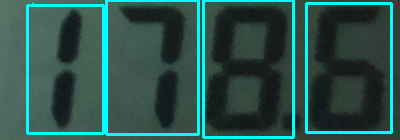
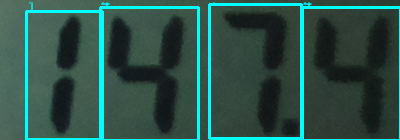
global process comensado

Changed region(s): [[0.06, 0.0, 1.0, 1.0], [0.12, 0.4286, 0.21, 0.6]]

diff --git a/Entrega1_2/main.py b/Entrega1_2/main.py
@@ -25,14 +25,23 @@ class Window:
         #clipping button
         self.MainWindow.Clip_button.clicked.connect(self.clipping)
         
-        #conexión del botón
+        #load button
         self.MainWindow.Load_button.clicked.connect(self.loadImage)
         
-        #Extract number button
+        #extract number button and windows
         self.MainWindow.OCR_button.clicked.connect(self.extractNumbers)
         self.res1 = self.MainWindow.resultado1
         self.res2 = self.MainWindow.resultado2
         self.res3 = self.MainWindow.resultado3
+
+        #global process button
+        self.MainWindow.GLOBAL_button.clicked.connect(self.globalProcess)
+
+    def globalProcess(self):
+        for i in range(12):
+            self.loadImage("capturas/capturas_{}.jpg".format(i+1))
+            self.clipping()
+            self.extractNumbers()
 
     def extractNumbers(self):
         num1 = self.nums[0][0][1]+self.nums[0][1][1]+self.nums[0][2][1]+'.'+self.nums[0][3][1]
@@ -69,13 +78,23 @@ class Window:
                 self.MainWindow.viewer_counter3.setPixmap(pixmap)
 
 
-    def loadImage (self):
-        directory = "capturas"
-        fn = QFileDialog.getOpenFileName(self.MainWindow, "Choose a frame to download", directory, "Images (*.png *.xpm *.jpg)")
+    def loadImage (self, dir=None):
+        if not dir:
+            directory = "capturas"
+            fn = QFileDialog.getOpenFileName(self.MainWindow, "Choose a frame to download", directory, "Images (*.png *.xpm *.jpg)")
+            img_fn = str(fn[0])
+        else:
+            img_fn = dir
         
-        self.original_image = cv2.imread(str(fn[0]), cv2.IMREAD_COLOR)
+        self.original_image = cv2.imread(img_fn, cv2.IMREAD_COLOR)
         self.mat_original = cv2.resize(self.original_image, (720, 540), cv2.INTER_CUBIC)
-        
+
+        self.MainWindow.viewer_counter1.clear()
+        self.MainWindow.viewer_counter2.clear()
+        self.MainWindow.viewer_counter3.clear()
+        self.res1.clear()
+        self.res2.clear()
+        self.res3.clear()
 
         image = QtGui.QImage(self.mat_original, 720, 540, QtGui.QImage.Format_RGB888)
         pixmap = QtGui.QPixmap()
